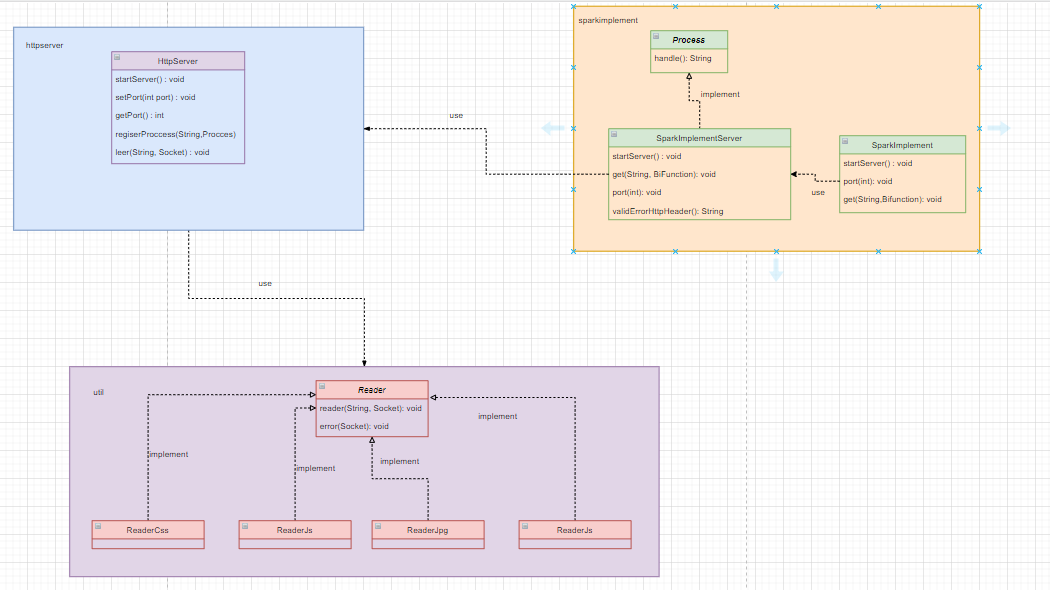
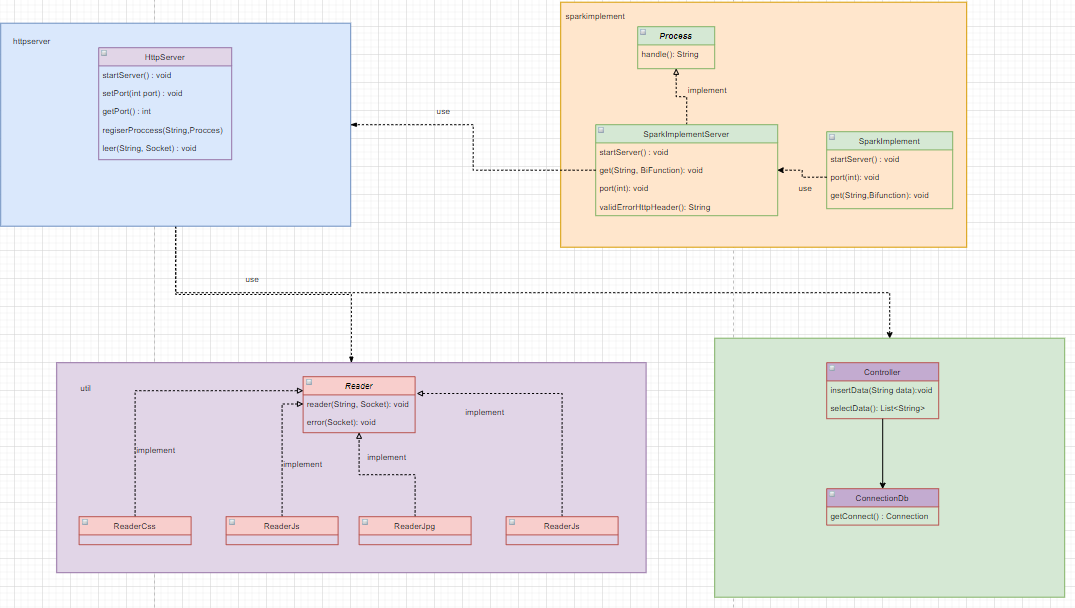
Se modifico el README

diff --git a/README.md b/README.md
@@ -53,6 +53,13 @@ Para revisar las rutas de la demo debe ingresar a las siguientes URL:
 * https://127.0.0.1:3478/Apps/img
 
 donde podrá observar un HTML implementado y una imagen respectivamente
+
+Adicionalmente el las rutas:
+* https://127.0.0.1:3478/Apps/index
+* https://127.0.0.1:3478/Apps/valores
+  
+podran agregar a la bases de datos de prueba un nombre cualquiera y ver el resultados de la consulta 
+respectivamente.
 * la función anónima recibe dos parámetros y espera que el retorno sea el nombre del archivo que se quiere usar.
 ### Javadoc
 La documentación se encuentra en el directorio apidocs, para generar una nueva documentación
